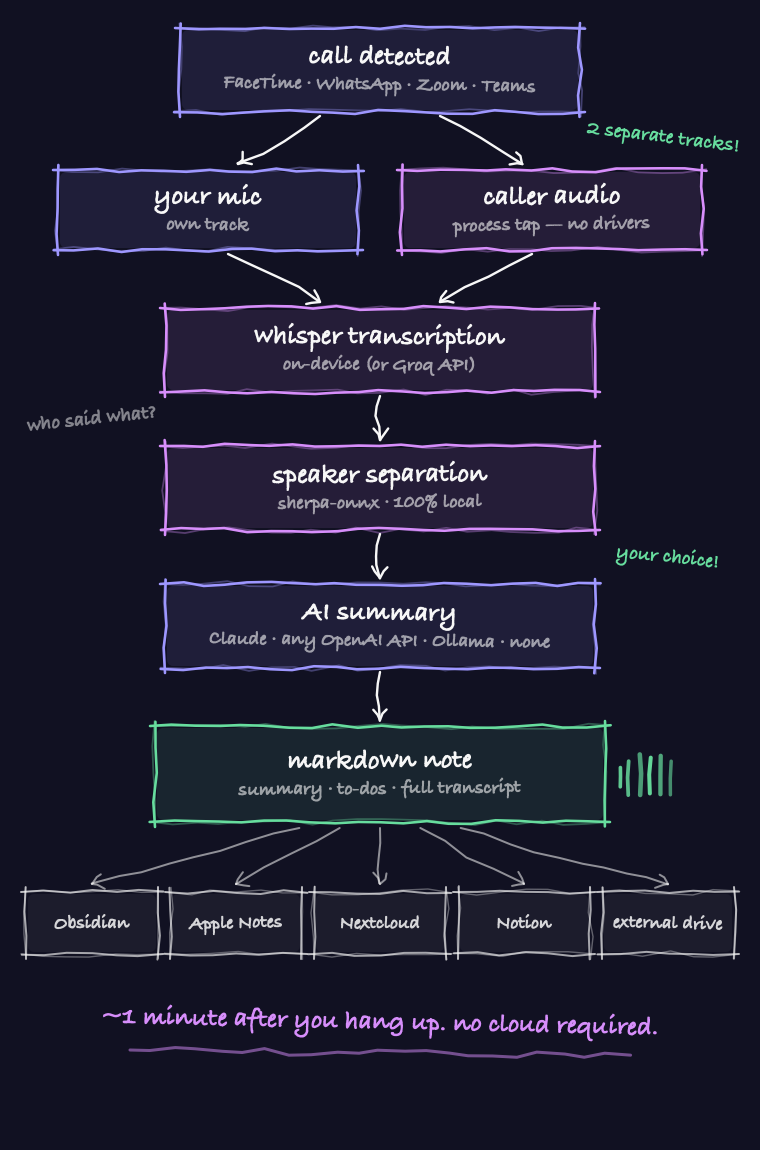
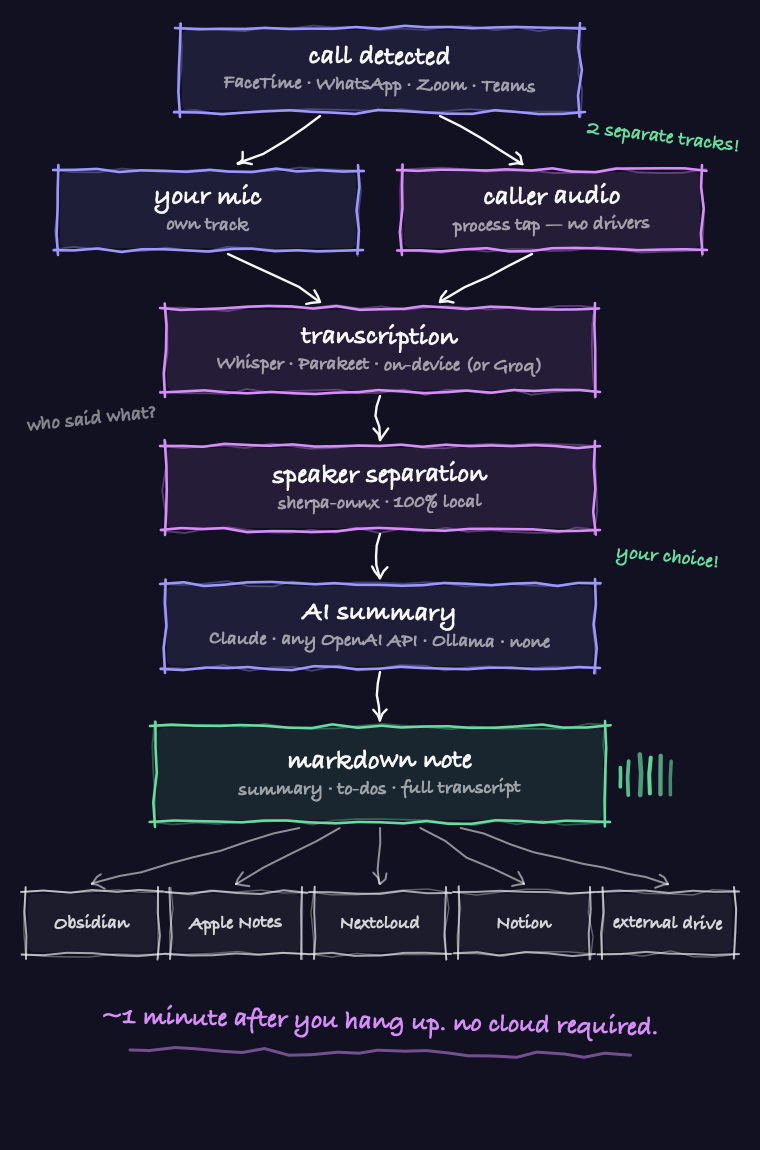
Mention Parakeet everywhere: why-section, config table, how-it-works diagram

Changed region(s): [[0.3026, 0.2739, 0.7263, 0.3348]]

diff --git a/assets/make-sketch-assets.swift b/assets/make-sketch-assets.swift
@@ -191,7 +191,7 @@ let diagramEN = DiagramTexts(
     mic: ("your mic", "own track"),
     caller: ("caller audio", "process tap — no drivers"),
     tracksNote: "2 separate tracks!",
-    whisper: ("whisper transcription", "on-device (or Groq API)"),
+    whisper: ("transcription", "Whisper · Parakeet · on-device (or Groq)"),
     diarize: ("speaker separation", "sherpa-onnx · 100% local"),
     whoNote: "who said what?",
     ai: ("AI summary", "Claude · any OpenAI API · Ollama · none"),
@@ -205,7 +205,7 @@ let diagramDE = DiagramTexts(
     mic: ("dein Mikro", "eigene Spur"),
     caller: ("Anrufer-Audio", "Process Tap — keine Treiber"),
     tracksNote: "2 getrennte Spuren!",
-    whisper: ("Whisper-Transkription", "am Gerät (oder Groq-API)"),
+    whisper: ("Transkription", "Whisper · Parakeet · am Gerät (oder Groq)"),
     diarize: ("Sprecher-Trennung", "sherpa-onnx · 100% lokal"),
     whoNote: "wer sagt was?",
     ai: ("KI-Zusammenfassung", "Claude · jede OpenAI-API · Ollama · keine"),

diff --git a/README.de.md b/README.de.md
@@ -39,8 +39,9 @@ Jedes Call-Recording-Tool braucht entweder einen virtuellen Audio-Treiber
 - Bei Konferenzen trennt eine lokale **Sprecher-Diarisierung** (sherpa-onnx) den
   Mix der Gegenseite in „Sprecher 1..N" — Namen ordnest du per Hör-Schnipsel und
   Dropdown zu.
-- Transkription läuft **on-device** (whisper.cpp, Metal) — oder über die Groq-API,
-  wenn dir Tempo wichtiger ist als Offline. Ein Schalter.
+- Transkription läuft **on-device** — whisper.cpp (Metal) oder **NVIDIA Parakeet TDT v3**
+  (die schnellste Option, 25 EU-Sprachen, keine Wiederholungsschleifen) — oder über die
+  Groq-API, wenn du Cloud-Tempo willst. Ein Schalter.
 - **KI deiner Wahl** für die Zusammenfassung: Claude Code (Standard), jede
   OpenAI-kompatible API (OpenAI, Groq, OpenRouter) oder komplett lokal via **Ollama** —
   oder ganz ohne.
@@ -124,7 +125,7 @@ Einstellungen in der Menüleiste. Die wichtigsten Felder:
 |---|---|
 | `apps` | Bundle-IDs, deren Mikrofon-Nutzung eine Aufnahme startet |
 | `tapScope` | `app` = nur die Call-App-Familie aufnehmen (Default), `global` = gesamtes Systemaudio |
-| `transcriber` / `groqApiKey` | `local` (whisper.cpp) oder `groq` (Cloud, schneller) |
+| `transcriber` / `groqApiKey` | `local` (whisper.cpp), `parakeet` (am schnellsten, `./install.sh --with-parakeet`) oder `groq` (Cloud) |
 | `summarizer` (+ `summarizerUrl/Model/ApiKey`) | `claude` (Claude Code CLI), `openai` (jede OpenAI-kompatible API inkl. Ollama/Groq/OpenRouter) oder `off` |
 | `noteSections` | welche Abschnitte die KI schreibt: Kurzfassung, Besprochen, To-dos, Follow-up-Mail |
 | `destinations` | zusätzliche Ablage: Apple Notes, Nextcloud (WebDAV), Notion |

diff --git a/README.md b/README.md
@@ -38,8 +38,9 @@ a visible meeting bot, or a cloud subscription. CallNotes needs none of that:
   speaker attribution for 1:1 calls, no AI guessing needed.**
 - For conference calls, local **speaker diarization** (sherpa-onnx) splits the remote
   mix into "Speaker 1..N" — you match names via short audio snippets and a dropdown.
-- Transcription runs **on-device** (whisper.cpp, Metal) — or via Groq API if you
-  prefer speed over privacy. Your choice, one toggle.
+- Transcription runs **on-device** — whisper.cpp (Metal) or **NVIDIA Parakeet TDT v3**
+  (the fastest option, 25 EU languages, no repetition loops) — or via Groq API if you
+  prefer cloud speed. Your choice, one toggle.
 - **Bring your own AI** for summaries: Claude Code (default), any OpenAI-compatible
   API (OpenAI, Groq, OpenRouter), fully local via **Ollama** — or none at all.
 
@@ -117,7 +118,7 @@ settings. Highlights:
 |---|---|
 | `apps` | bundle IDs that trigger recording |
 | `tapScope` | `app` = record only the call app family (default), `global` = all system audio |
-| `transcriber` / `groqApiKey` | `local` (whisper.cpp) or `groq` (cloud, faster) |
+| `transcriber` / `groqApiKey` | `local` (whisper.cpp), `parakeet` (fastest, `./install.sh --with-parakeet`) or `groq` (cloud) |
 | `summarizer` (+ `summarizerUrl/Model/ApiKey`) | `claude` (Claude Code CLI), `openai` (any OpenAI-compatible API incl. Ollama/Groq/OpenRouter) or `off` |
 | `noteSections` | which sections Claude writes: summary, discussed, todos, follow-up email |
 | `destinations` | extra delivery: Apple Notes, Nextcloud (WebDAV), Notion |